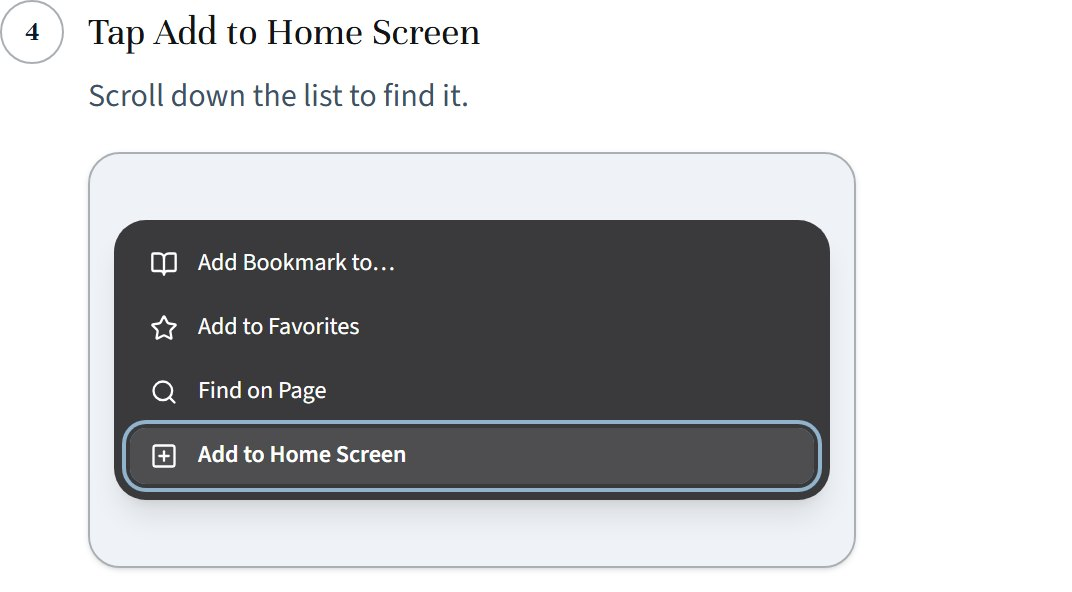
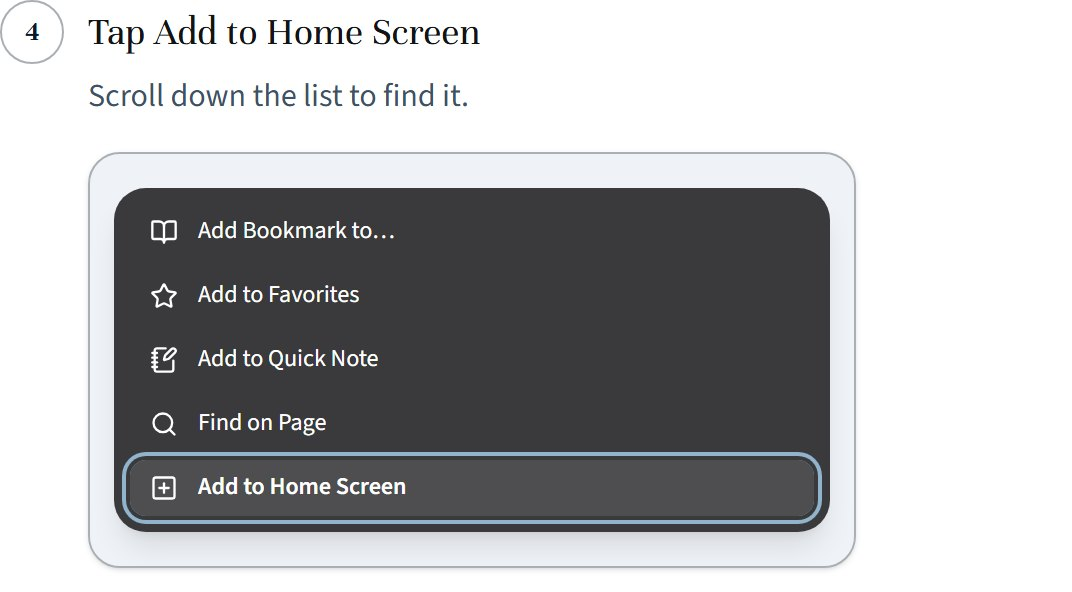
docs(guides): draw step 1 from iOS 27 Safari
iOS 27 opens the page menu from the icon at the left of the address bar
and no longer has a three-dot button; the step names both. The Share
list now matches iOS 27 too.

Changed region(s): [[0.0924, 0.3041, 0.8004, 0.9122]]

diff --git a/src/app/portal/guides/install/page.tsx b/src/app/portal/guides/install/page.tsx
@@ -3,7 +3,7 @@ import Image from "next/image";
 import Link from "next/link";
 import { headers } from "next/headers";
 import { redirect } from "next/navigation";
-import { Bookmark, BookOpen, FileText, Languages, ChevronDown, Clock, Copy, EllipsisVertical, Glasses, Lightbulb, Lock, Plus, RotateCw, Search, Share, SquarePlus, Star, X } from "lucide-react";
+import { Bookmark, BookOpen, Menu, NotebookPen, FileText, Languages, ChevronDown, Clock, Copy, EllipsisVertical, Glasses, Lightbulb, Lock, Plus, RotateCw, Search, Share, SquarePlus, Star, X } from "lucide-react";
 import { AUDIENCE_BADGE, GUIDE_ICONS } from "@/components/guides/guide-meta";
 import { GuideNeighbours } from "@/components/guides/guide-neighbours";
 import { Breadcrumb } from "@/components/portal/breadcrumb";
@@ -290,16 +290,20 @@ const ANDROID_STEPS: Step[] = [
 ];
 
 /** iOS 26 Safari, drawn from real screenshots: a floating toolbar, a ••• menu, then the share sheet. */
-function SafariToolbar({ highlightMore = false }: { highlightMore?: boolean }) {
+/** iOS 27 Safari: the page menu sits behind the ≡ icon at the left end of the address bar; the right-hand circle is Tabs. */
+function SafariToolbar() {
 	return (
 		<div className="flex items-center gap-2 px-3 pb-3">
 			<span className="grid size-8 shrink-0 place-items-center rounded-full border border-border bg-card text-lg leading-none shadow-sm">‹</span>
-			<span className="flex min-w-0 flex-1 items-center justify-between gap-1 rounded-full border border-border bg-card px-3 py-1.5 text-xs shadow-sm">
-				<span className="truncate">ateneocode.org</span>
+			<span className="flex min-w-0 flex-1 items-center gap-2 rounded-full border border-border bg-card py-1 pl-1 pr-3 text-xs shadow-sm">
+				<span className={cn("grid size-6 shrink-0 place-items-center rounded-full", ring)}>
+					<Menu className="size-3.5" />
+				</span>
+				<span className="min-w-0 flex-1 truncate">ateneocode.org</span>
 				<RotateCw className="size-3 shrink-0" />
 			</span>
-			<span className={cn("grid size-8 shrink-0 place-items-center rounded-full border border-border bg-card text-sm font-bold tracking-tight shadow-sm", highlightMore && ring)}>
-				•••
+			<span className="grid size-8 shrink-0 place-items-center rounded-full border border-border bg-card shadow-sm">
+				<Copy className="size-3.5" />
 			</span>
 		</div>
 	);
@@ -321,13 +325,13 @@ function SheetRow({ icon: Icon, label, active = false }: { icon: typeof Share; l
 const IOS_STEPS: Step[] = [
 	{
 		key: "i1",
-		title: "Tap the ••• button",
-		body: "In Safari, open the portal. The ••• button sits at the bottom right, next to the address bar.",
+		title: "Open Safari’s menu",
+		body: "In Safari, open the portal. On iOS 27, tap the ≡ icon at the left end of the address bar. On iOS 26, it’s the ••• button at the bottom right.",
 		tip: "See Share right in Safari’s toolbar instead? That’s Safari’s Bottom or Top tab layout, or an iPad. Tap it and skip to step 3.",
 		mock: (
 			<div className="grid h-full grid-rows-[1fr_auto]">
 				<PageLines />
-				<SafariToolbar highlightMore />
+				<SafariToolbar />
 			</div>
 		),
 	},
@@ -390,6 +394,7 @@ const IOS_STEPS: Step[] = [
 				<DarkSheet>
 					<SheetRow icon={BookOpen} label="Add Bookmark to…" />
 					<SheetRow icon={Star} label="Add to Favorites" />
+					<SheetRow icon={NotebookPen} label="Add to Quick Note" />
 					<SheetRow icon={Search} label="Find on Page" />
 					<SheetRow icon={SquarePlus} label="Add to Home Screen" active />
 				</DarkSheet>

diff --git a/src/lib/email/starters.ts b/src/lib/email/starters.ts
@@ -31,7 +31,7 @@ export function emailStarters(baseUrl: string) {
 				divider,
 				heading("On iPhone or iPad", 2),
 				text("Open the portal in **Safari**, then follow the taps. Menus move around a little between iOS versions, so whatever yours looks like, find **Share**, then scroll down to **Add to Home Screen**."),
-				image(`${baseUrl}/email/app-launch/ios-1.jpg`, "Step 1: in Safari, tap the three-dot button at the bottom right.", `${portal}/guides/install?os=ios`),
+				image(`${baseUrl}/email/app-launch/ios-1.jpg`, "Step 1: in Safari, open the menu from the icon at the left of the address bar (iOS 27) or the three-dot button (iOS 26).", `${portal}/guides/install?os=ios`),
 				image(`${baseUrl}/email/app-launch/ios-2.jpg`, "Step 2: tap Share in the menu.", `${portal}/guides/install?os=ios`),
 				image(`${baseUrl}/email/app-launch/ios-3.jpg`, "Step 3: tap View More at the end of the share sheet's bottom row.", `${portal}/guides/install?os=ios`),
 				image(`${baseUrl}/email/app-launch/ios-4.jpg`, "Step 4: scroll down and tap Add to Home Screen.", `${portal}/guides/install?os=ios`),

diff --git a/src/lib/guides/content.ts b/src/lib/guides/content.ts
@@ -53,7 +53,7 @@ export const GUIDES: Guide[] = [
 			},
 			{
 				title: "iPhone or iPad: add it to your Home Screen",
-				body: "In Safari, tap the ••• button, then Share, then View More. Scroll down, tap Add to Home Screen, keep Open as Web App on, and tap Add.",
+				body: "In Safari, open the menu (the ≡ icon in the address bar on iOS 27, or the ••• button on iOS 26), then tap Share, then View More. Scroll down, tap Add to Home Screen, keep Open as Web App on, and tap Add.",
 				tip: "No Share button in sight? Tap the ⋯ button next to the address bar first. If Add to Home Screen is missing from the list, tap Edit Actions at the bottom to turn it on.",
 			},
 			{
